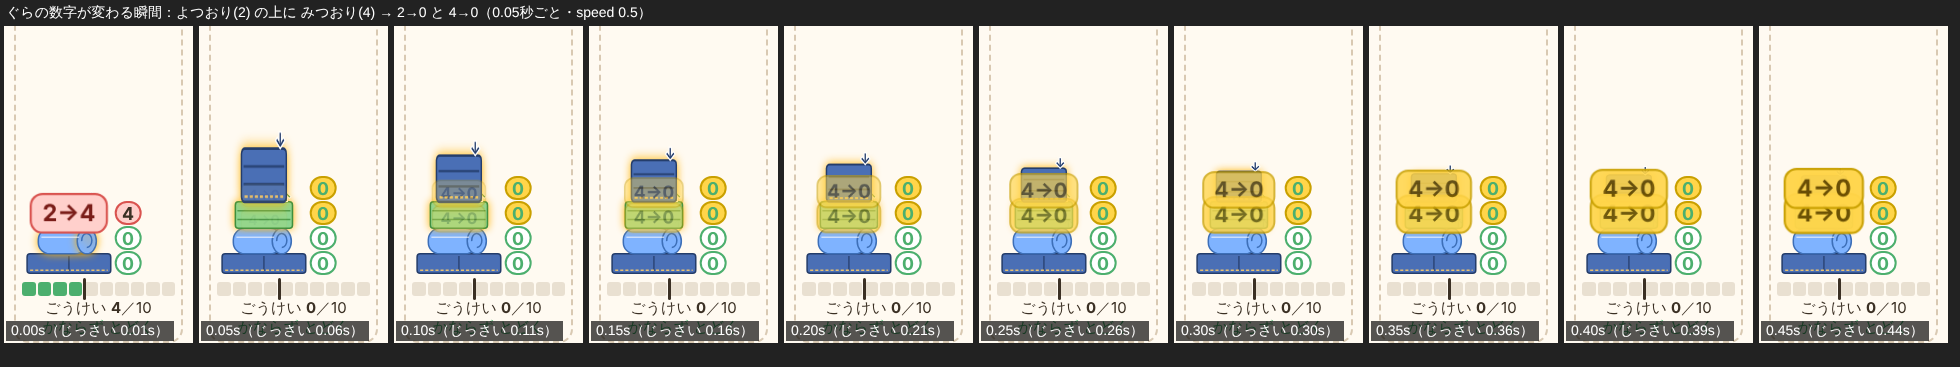
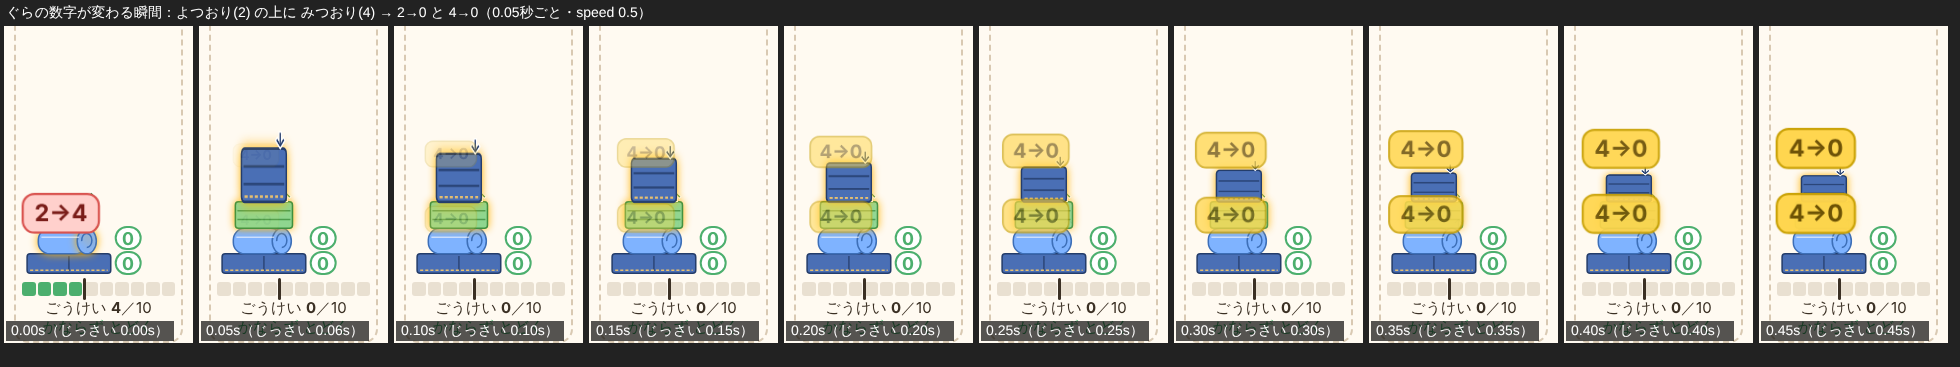
20:17 の回：「3→0」の吹き出しの置き方（数字の場所／詰まっていれば左／小さすぎれば数字の色だけ）。check.js --speed。速さ3でも 0
Claude-Session: https://claude.ai/code/session_01MmzYoT4B9Fx3f1cD3sztui

diff --git a/ui.js b/ui.js
@@ -336,16 +336,30 @@
     var slot = $('stacks').querySelector('.slot[data-slot="' + fx.slot + '"]'); if (!slot) return;
     var sb = slot.querySelector('.stackbox'); var layers = sb.querySelectorAll('.layer'); var nums = sb.querySelectorAll('.gnum');
     var anyDown = false, anyUp = false;
-    fx.changes.forEach(function (ch) {
+    var W = sb.clientWidth, H = sb.clientHeight, placedYs = [];
+    fx.changes.forEach(function (ch, j) {
       var n = nums[ch.i]; if (!n) return;
       n.classList.add('chg'); if (ch.to > ch.from) n.classList.add('up');
       var pop = document.createElement('div'); pop.className = 'fx-chg' + (ch.to > ch.from ? ' up' : ''); pop.textContent = ch.from + '→' + ch.to;
-      var gm = sb.__geom || { offX: 0, sc: 1 };
-      pop.style.left = (gm.offX + 46 * gm.sc) + 'px'; pop.style.top = n.style.top; sb.appendChild(pop);
+      sb.appendChild(pop);
+      // 吹き出しは 数字の場所に出す（数字は その間 隠す）。2つ以上 同時なら 1つおきに 左（絵の上）に出して 重ならないように。箱の外には出さない
+      var pw = pop.offsetWidth || 40, ph = pop.offsetHeight || 24, x = parseFloat(n.style.left) || W / 2, y = parseFloat(n.style.top) || H / 2;
+      var numW = n.offsetWidth || 24;
+      if (H < ph + 4 || W < pw + numW + 12) { pop.remove(); if (layers[ch.i]) layers[ch.i].classList.add('fx-take'); ch.givers.forEach(function (gi) { if (layers[gi]) layers[gi].classList.add('fx-give'); }); if (ch.to < ch.from) anyDown = true; else anyUp = true; setTimeout(function () { n.classList.remove('chg', 'up'); }, D(1600)); return; } // 箱が小さすぎて 吹き出しが入らない時は 数字の色だけ変える
+      if (sb.getAttribute('data-nummode') !== 'one' || n.classList.contains('gdot') || n.classList.contains('hidden')) x = x - pw - 6; // 数字が詰まっている（2列・等間隔）時は 左（絵の上）に出して 隣の数字と重ねない
+      x = Math.max(pw / 2 + 2, Math.min(W - pw / 2 - 2, x));
+      // 縦：箱の中に おさめ、前に出した吹き出しと 重ならない所まで ずらす
+      var fits = function (yy) { for (var q = 0; q < placedYs.length; q++) if (Math.abs(placedYs[q] - yy) < ph + 2) return false; return true; };
+      var clampY = function (yy) { return Math.max(ph / 2 + 1, Math.min(H - ph / 2 - 1, yy)); };
+      y = clampY(y);
+      if (!fits(y)) { var up = y, down = y, k = 0; while (k++ < 20) { up -= ph + 2; down += ph + 2; if (up >= ph / 2 + 1 && fits(up)) { y = up; break; } if (down <= H - ph / 2 - 1 && fits(down)) { y = down; break; } } }
+      placedYs.push(y);
+      pop.style.left = x + 'px'; pop.style.top = y + 'px';
+      n.style.visibility = 'hidden';
       if (layers[ch.i]) layers[ch.i].classList.add('fx-take');
       ch.givers.forEach(function (gi) { if (layers[gi]) layers[gi].classList.add('fx-give'); });
       if (ch.to < ch.from) anyDown = true; else anyUp = true;
-      setTimeout(function () { pop.remove(); n.classList.remove('chg', 'up'); }, D(1600));
+      setTimeout(function () { pop.remove(); n.classList.remove('chg', 'up'); n.style.visibility = ''; }, D(1600));
     });
     if (layers[fx.placed]) layers[fx.placed].classList.add('fx-pat');
     if (anyDown) SFX.good(); else if (anyUp) SFX.up();

diff --git a/REPORT.md b/REPORT.md
@@ -193,6 +193,7 @@ node tools/check.js --runs 3（?auto=1&bg=1&speed=10&mute=1。大きさごとに
 | 案C（`--v c`）1366×768・375×812 | 10 | 30 | 231・231 | 32001〜 |
 
 20:13 JST：`node tools/all.js --quick`（案Cの検査も含む通し）145秒で全部通る。
+20:17 の回：check.js に `--speed`（遅い速さでの検査）を足し、速さ3で回したら スマホで「3→0」の吹き出しが隣の数字と重なる場面が見つかった（速さ10では短すぎて捕まらなかった）。吹き出しを 数字の場所に出す（その間 数字は隠す）／数字が詰まっている時は 左（絵の上）に出す／箱が小さすぎる時は出さず 数字の色だけ変える、に直して、速さ3（375×812・360×640・1366×768・1920×910）と速さ10（6つの大きさ）で 0。
 
 ## 5. 確かめられなかったこと
 
